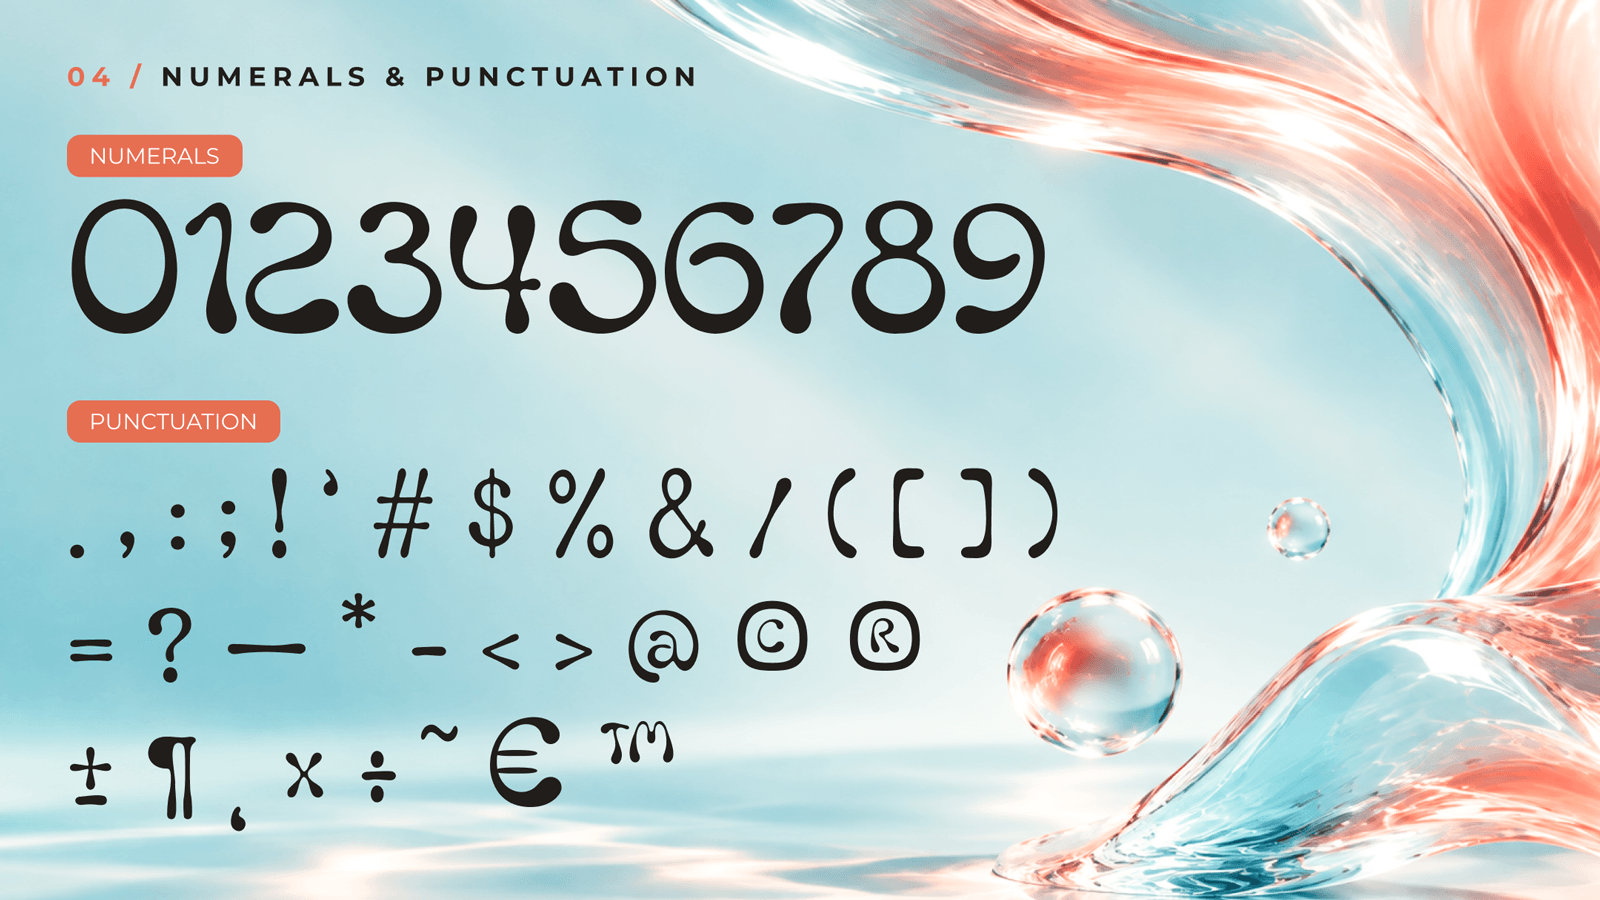
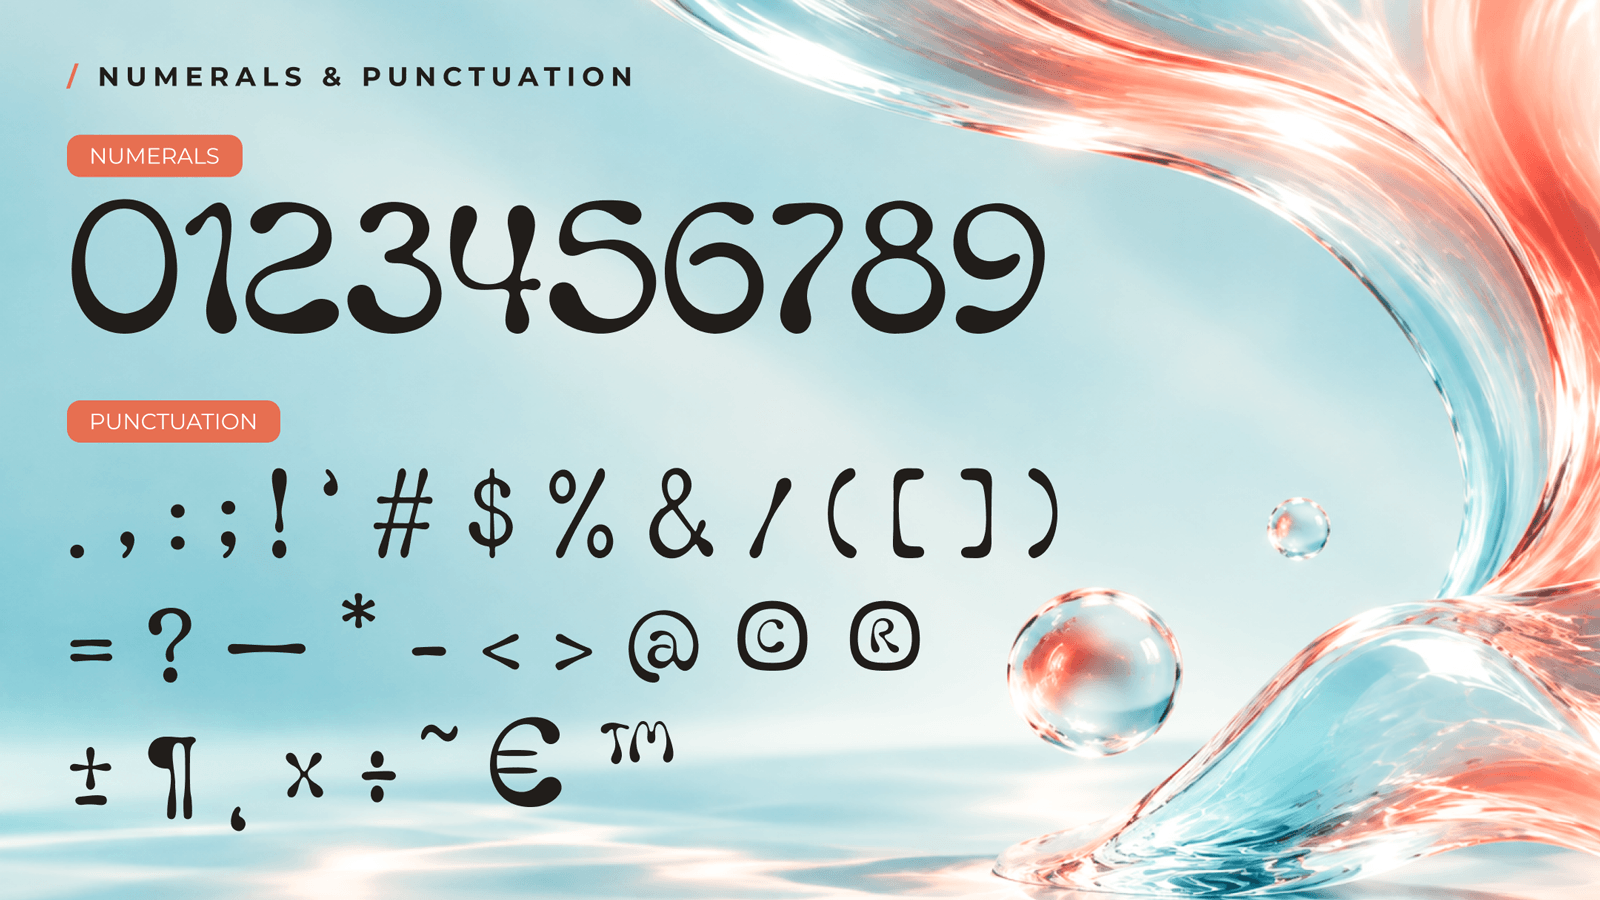
Update all 22 Fluma specimen images and descriptions

Changed region(s): [[0.0312, 0.0622, 0.4375, 0.0933]]

diff --git a/documentation/article/ARTICLE.en_us.html b/documentation/article/ARTICLE.en_us.html
@@ -1,9 +1,9 @@
 <p>Fluma is a display typeface designed by Baturay Kocatepe. Its forms combine broad, rounded volumes with narrow connections and tapered endings. The changing widths give short words a flowing rhythm at large sizes. Fluma is intended for headlines, visual identities, posters, and editorial compositions where the shapes of the letters can be seen clearly. To contribute, see <a href="https://github.com/baturaykocatepe/Fluma-Font">github.com/baturaykocatepe/Fluma-Font</a>.</p>
 <p>The family currently has one Regular style. It covers the GF Latin Core character set, including the Turkish letters &Ccedil; &ccedil; &#286; &#287; &#304; &#305; &Ouml; &ouml; &#350; &#351; &Uuml; and &uuml;. The set also includes accented Latin letters, punctuation, figures, currency signs, and symbols. The design is most appropriate for display use; the intricate contours and marked changes in width are part of its character and should be evaluated at the size and in the context in which the font will be used.</p>
 <p>Fluma gives individual letters distinct silhouettes while maintaining a family resemblance across a word. In the specimen's title setting, heavy terminals sit beside fine, extended connections, and the counters remain open enough to make the large shapes legible. This variation is intentional: the contours are meant to make the written word feel like a continuous composition, rather than a repetition of identical strokes. The font can be used in a single prominent word or in a short line where its rhythm has room to develop.</p>
-<p>Its specimen sequence uses large letterforms, smaller text samples, and character information to show how the Regular style behaves in different arrangements. The images combine the typeface with a translucent sculptural visual language in teal, coral, and pale neutral tones. These compositions illustrate a possible visual identity for Fluma; the font files can also be used independently of the specimen artwork. The numbered pages are presented in their original order so the opening, type examples, information page, and closing retain their intended sequence.</p>
+<p>Its specimen sequence uses large letterforms, smaller text samples, and character information to show how the Regular style behaves in different arrangements. The images combine the typeface with a translucent sculptural visual language in teal, coral, and pale neutral tones. These compositions illustrate a possible visual identity for Fluma; the font files can also be used independently of the specimen artwork. The pages are presented in sequence so the opening, type examples, information page, and closing retain their intended order.</p>
 <p>The editable project was created in Glyphr Studio. Its source is provided together with a converted UFO and a reproducible build for TTF and OTF files. The build adds positioning for combining marks and substitutions for dotted letters when a top accent is attached. The font software is licensed under the SIL Open Font License, Version 1.1. The specimen images have a separate CC BY-SA 4.0 license.</p>
-<p>The following 22 pages show the original specimen sequence. They were prepared as a connected presentation, with page numbers retained in the artwork. Some text on the specimen pages describes an earlier export of the font; the current source and compiled files in the repository are the reference for technical coverage.</p>
+<p>The following 22 pages show the current specimen sequence. They were prepared as a connected presentation. Some text on the specimen pages describes an earlier export of the font; the current source and compiled files in the repository are the reference for technical coverage.</p>
 <figure><img src="specimen1.png" alt="Fluma specimen page 01 of 22" /></figure>
 <figure><img src="specimen2.png" alt="Fluma specimen page 02 of 22" /></figure>
 <figure><img src="specimen3.png" alt="Fluma specimen page 03 of 22" /></figure>

diff --git a/README.md b/README.md
@@ -6,7 +6,7 @@ Fluma is a liquid organic display typeface with soft, tapering forms. It is inte
 
 ## About
 
-Fluma is designed by Baturay Kocatepe. All 22 original exports appear in sequence in the [specimen gallery](documentation/SPECIMENS.md) and the [article](documentation/article/ARTICLE.en_us.html). The images have a [separate license](documentation/image-license.txt).
+Fluma is designed by Baturay Kocatepe. All 22 current specimen pages appear in sequence in the [specimen gallery](documentation/SPECIMENS.md) and the [article](documentation/article/ARTICLE.en_us.html). The images have a [separate license](documentation/image-license.txt).
 
 Baturay Kocatepe directed the typeface and states that he is its sole copyright holder. The project history records use of GPT Image for an early character sheet, Illustrator Image Trace for vectorization, and Adobe Firefly for some later character references; the resulting shapes were developed in Glyphr Studio. Claude Code assisted with construction of some Turkish and missing Latin characters in the GS2 source. Codex assisted with source corrections, the UFO conversion, OpenType feature generation, and technical QA. This AI-assisted production history is disclosed for review; the editable source and build tools are included.
 
@@ -43,6 +43,10 @@ bash sources/build.sh
 
 When you update your font (new version or new release), please report all notable changes here, with a date.
 [Font Versioning](https://github.com/googlefonts/gf-docs/tree/main/Spec#font-versioning) is based on semver.
+
+**23 October 2026. Specimen update (font remains Version 1.000)**
+
+- Replaced all 22 specimen PNGs with the designer's revised exports. Font sources and binaries were not changed.
 
 **30 September 2026. Version 1.000 build update**
 

diff --git a/documentation/TECHNICAL_READINESS-2026-09-30.md b/documentation/TECHNICAL_READINESS-2026-09-30.md
@@ -1,5 +1,7 @@
 # FlumaFont technical readiness, 2026-09-30
 
+> **Specimen update, 2026-10-23:** The designer replaced all 22 PNGs in `documentation/article/` with revised 1600 × 900 exports. The font source, binaries, and September QA results did not change. The specimen observations below document the September originals. In the revised set, credits were removed from pages 1, 12, and 22; page 21 still shows the earlier 334 count and an embedded credit, page 19 still says “In Packaging,” and page 20 still says “CAE.” See the [current gallery](SPECIMENS.md).
+
 ## Verified package
 
 The canonical editable source is `sources/Fluma.gs2`. `sources/build.sh` converts it to `sources/Fluma.ufo` and builds `fonts/ttf/Fluma-Regular.ttf` and `fonts/otf/Fluma-Regular.otf`. Its finalization step adds a static upright STAT axis and Latin `meta` tags. Python dependencies are listed in `requirements.txt`. Two consecutive builds produced byte-identical TTF, OTF, WOFF, and WOFF2 files with the build date pinned to 2026-09-30 UTC. The converter now omits sub-unit line fragments that become zero-length when compiled to integer TrueType coordinates. Relative to the preceding 14-WARN TTF, all on-curve points and the cmap, hmtx, GDEF, GPOS, GSUB, name, STAT, and meta tables remain identical; six off-curve points in five glyphs shift by one unit. The GS2 design source was unchanged by this cleanup.

diff --git a/documentation/SPECIMENS.md b/documentation/SPECIMENS.md
@@ -1,6 +1,6 @@
 # Fluma specimen gallery
 
-These are the 22 original specimen exports supplied by Baturay Kocatepe. Image license: [CC BY-SA 4.0](image-license.txt).
+These are the 22 current specimen exports supplied by Baturay Kocatepe and updated on 23 October 2026. Image license: [CC BY-SA 4.0](image-license.txt).
 
 ## Specimen 01
 
@@ -86,7 +86,7 @@ These are the 22 original specimen exports supplied by Baturay Kocatepe. Image l
 
 ![Fluma specimen 21](article/specimen21.png)
 
-This image records the original 334-character export. The current rebuilt font maps 337 Unicode codepoints. The image is retained unchanged as part of the original specimen series.
+This page still shows the earlier 334-character export count. The current font maps 337 Unicode codepoints; see the [technical readiness report](TECHNICAL_READINESS-2026-09-30.md). The embedded designer credit is part of the supplied artwork and is pending an editorial correction.
 
 ## Specimen 22
 
